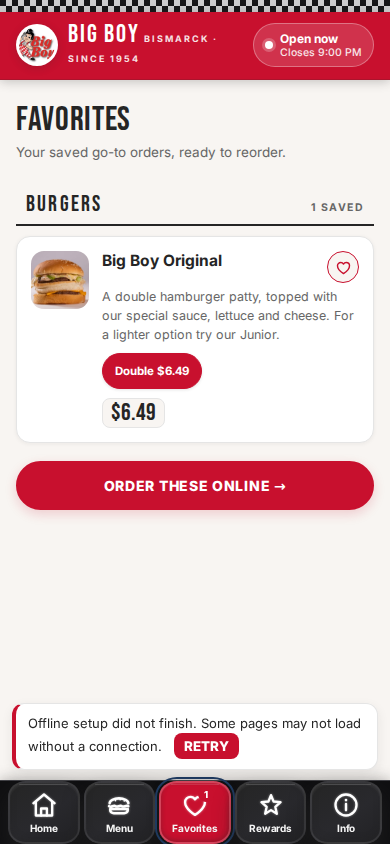
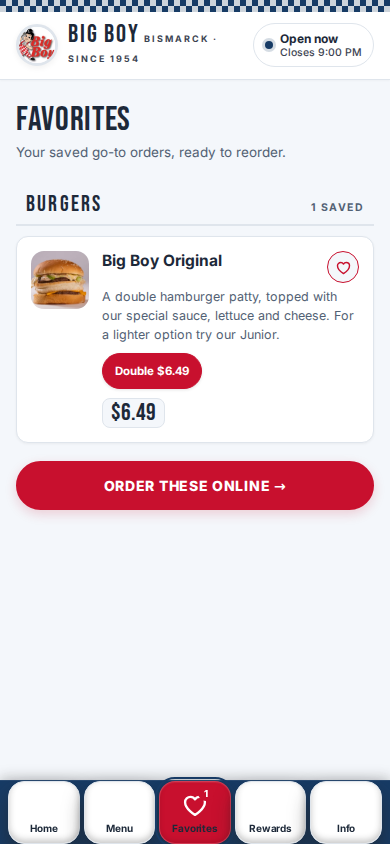
Premium drive-in palette: white/ice-white dominant, navy + red accents

diff --git a/index.html b/index.html
@@ -20,28 +20,22 @@
 <link href="https://fonts.googleapis.com/css2?family=Bebas+Neue&family=Inter:wght@400;500;600;700;800&display=swap" rel="stylesheet">
 <style>
 :root{
-  /* one unified palette */
-  --bg:#F8F5F2;
-  --paper:#FFFFFF;
-  --ink:#252525;
-  --ink-soft:#666666;
-  --line:#E5E5E5;
-  --red:#C8102E;
-  --red-dark:#9B0B23;
-  --navy:#1F3A5F;
-  /* dark surfaces: bottom nav + hero blocks only */
-  --nav:#101012;
-  --charcoal:#252525;
-  --hero-ink:#F5F5F5;
-  --dark-bg:#171719;
-  --dark-card:#29292D;
-  --dark-secondary:#222225;
-  --dark-border:#414146;
-  --shadow:0 4px 12px rgba(37,37,37,.08);
-  --shadow-soft:0 1px 4px rgba(37,37,37,.06);
-  --radius:18px;
-  --radius-md:14px;
-  --radius-sm:12px;
+  /* drive-in brand: white-dominant with red, navy and soft blue accents */
+  --bg:#F4F7FB;       /* ice-white page background */
+  --paper:#FFFFFF;    /* cards */
+  --ink:#1D2939;      /* primary text */
+  --ink-soft:#526174; /* secondary text */
+  --line:#DFE5EC;     /* light borders */
+  --red:#C8102E;      /* primary accent */
+  --red-dark:#9B0B23; /* dark red */
+  --navy:#173B65;     /* deep navy */
+  --blue:#DCE8F4;     /* soft blue (sparingly) */
+  --nav:#173B65;
+  --shadow:0 2px 8px rgba(0,0,0,.05);
+  --shadow-soft:0 1px 3px rgba(0,0,0,.05);
+  --radius:16px;
+  --radius-md:12px;
+  --radius-sm:10px;
   --nav-h:64px;
 }
 *{box-sizing:border-box;-webkit-tap-highlight-color:transparent}
@@ -65,9 +59,9 @@ img{max-width:100%}
   position:relative;
   display:flex;flex-direction:column;align-items:center;justify-content:center;
   gap:9px;min-width:0;
-  border:2px solid rgba(255,255,255,.09);
-  border-radius:25%;
-  background:linear-gradient(145deg,var(--charcoal) 0%,var(--dark-card) 55%,var(--dark-secondary) 100%);
+  border:1px solid var(--line);
+  border-radius:16px;
+  background:var(--paper);
   box-shadow:
     inset 0 2px 2px rgba(255,255,255,.06),
     inset 0 -3px 6px rgba(37,37,37,.25),
@@ -76,45 +70,37 @@ img{max-width:100%}
   text-decoration:none;
   transition:transform 180ms ease,box-shadow 180ms ease,border-color 180ms ease;
 }
-.retro-icon-button::before{
-  content:"";position:absolute;left:10%;right:10%;top:1px;height:1px;
-  background:rgba(255,255,255,.14);border-radius:999px;pointer-events:none;
-}
+
 .retro-icon-button:active{
-  transform:translateY(2px) scale(.98);
-  box-shadow:
-    inset 0 1px 2px rgba(255,255,255,.04),
-    inset 0 2px 5px rgba(37,37,37,.35),
-    0 5px 10px rgba(37,37,37,.5);
+  transform:translateY(1px) scale(.98);
+  box-shadow:0 1px 3px rgba(0,0,0,.05);
 }
 .retro-icon-button:focus-visible{outline:3px solid var(--navy);outline-offset:3px}
 .retro-icon-button .icon{
   display:grid;place-items:center;flex:none;
-  color:var(--paper);
-  filter:drop-shadow(0 0 1px rgba(255,255,255,.45));
+  color:var(--navy);
+  filter:none;
 }
 .retro-icon-button .icon svg{
   width:100%;height:100%;display:block;
   stroke-width:2.5;
 }
 .retro-icon-button .label{
-  color:var(--hero-ink);font-weight:700;text-align:center;
+  color:var(--ink);font-weight:700;text-align:center;
   letter-spacing:-.02em;line-height:1.15;
 }
 .retro-icon-button.primary{
-  background:linear-gradient(160deg,var(--red) 0%,var(--red) 55%,var(--red-dark) 100%);
-  border-color:rgba(255,255,255,.22);
-  box-shadow:
-    inset 0 2px 3px rgba(255,255,255,.15),
-    0 12px 22px rgba(37,37,37,.45),
-    0 4px 16px rgba(200,16,46,.18);
+  background:var(--red);
+  border-color:var(--red-dark);
+  color:#fff;
+  box-shadow:0 4px 12px rgba(200,16,46,.12);
 }
 .retro-icon-button.primary .icon{color:var(--paper)}
 
 /* ---------- checker strip ---------- */
 .checker{
   height:12px;
-  background-color:var(--dark-bg);color:var(--hero-ink);
+  background-color:var(--navy);color:#fff;
   background-image:
     linear-gradient(45deg,rgba(245,245,245,.82) 25%,transparent 25%,transparent 75%,rgba(245,245,245,.82) 75%),
     linear-gradient(45deg,rgba(245,245,245,.82) 25%,transparent 25%,transparent 75%,rgba(245,245,245,.82) 75%);
@@ -125,18 +111,18 @@ img{max-width:100%}
 /* ---------- header ---------- */
 header{
   position:sticky;top:0;z-index:40;
-  background:var(--red);
-  color:var(--paper);
+  background:var(--paper);
+  color:var(--ink);
   padding:11px 16px 12px;
-  border-bottom:1px solid rgba(37,37,37,.18);
-  box-shadow:0 2px 10px rgba(37,37,37,.24);
+  border-bottom:1px solid var(--line);
+  box-shadow:0 1px 2px rgba(0,0,0,.03);
 }
 .brand{display:flex;align-items:center;gap:12px;justify-content:space-between;min-height:42px}
 .logo{display:flex;align-items:center;gap:10px;text-decoration:none}
 .logo-badge{
   width:42px;height:42px;border-radius:50%;
   background:var(--paper);position:relative;overflow:hidden;flex:none;
-  border:3px solid rgba(255,255,255,.95);box-shadow:0 2px 8px rgba(37,37,37,.18);
+  border:3px solid var(--line);box-shadow:0 2px 6px rgba(0,0,0,.06);
   display:grid;place-items:center;font-size:20px;
 }
 .logo-badge img{position:absolute;inset:0;width:100%;height:100%;object-fit:cover}
@@ -144,13 +130,14 @@ header{
 .logo-text .t2{font-size:9px;letter-spacing:.22em;opacity:.88;font-weight:700;margin-top:3px}
 .status{
   display:flex;align-items:center;gap:7px;
-  background:rgba(255,255,255,.14);
-  border:1px solid rgba(255,255,255,.32);
+  background:var(--paper);
+  border:1px solid var(--line);
+  color:var(--ink);
   padding:7px 11px;border-radius:999px;font-size:12px;font-weight:700;
   white-space:nowrap;
 }
-.status .dot{width:8px;height:8px;border-radius:50%;background:var(--paper);box-shadow:0 0 0 3px rgba(255,255,255,.22);flex:none}
-.status.closed .dot{background:var(--charcoal);box-shadow:0 0 0 3px rgba(37,37,37,.22)}
+.status .dot{width:8px;height:8px;border-radius:50%;background:var(--navy);box-shadow:0 0 0 3px rgba(23,59,101,.18);flex:none}
+.status.closed .dot{background:var(--red-dark);box-shadow:0 0 0 3px rgba(155,11,35,.2)}
 .status small{display:block;font-weight:500;opacity:.88;font-size:10.5px;line-height:1.25}
 
 /* ---------- screens ---------- */
@@ -171,12 +158,12 @@ header{
 /* ---------- hero ---------- */
 .hero{
   position:relative;overflow:hidden;border-radius:var(--radius);
-  background:var(--charcoal);color:var(--hero-ink);padding:30px 20px 24px;
-  border:1px solid rgba(255,255,255,.08);
-  box-shadow:0 6px 18px rgba(37,37,37,.26);min-height:250px;display:flex;flex-direction:column;justify-content:flex-end;
+  background:var(--red);color:#fff;padding:30px 20px 24px;
+  border:1px solid var(--red-dark);
+  box-shadow:0 4px 12px rgba(200,16,46,.16);min-height:250px;display:flex;flex-direction:column;justify-content:flex-end;
 }
 .hero-bg{position:absolute;inset:0;width:100%;height:100%;object-fit:cover;z-index:0}
-.hero-tint{position:absolute;inset:0;z-index:1;background:linear-gradient(155deg,rgba(37,37,37,.86) 0%,rgba(34,34,37,.93) 65%,rgba(23,23,25,.96) 100%)}
+.hero-tint{position:absolute;inset:0;z-index:1;background:linear-gradient(155deg,rgba(255,255,255,.24) 0%,transparent 100%)}
 .hero-check{
   position:absolute;inset:0;z-index:1;opacity:.5;
   background-image:
@@ -185,7 +172,7 @@ header{
   background-size:28px 28px;background-position:0 0,14px 14px;
 }
 .hero>*:not(.hero-bg):not(.hero-tint):not(.hero-check){position:relative;z-index:2}
-.hero .eyebrow{font-size:11px;letter-spacing:.3em;font-weight:800;color:var(--hero-ink);margin:0 0 8px}
+.hero .eyebrow{font-size:11px;letter-spacing:.3em;font-weight:800;color:#fff;margin:0 0 8px}
 .hero h1{font-size:52px;margin:0;line-height:.92}
 .hero p{margin:12px 0 0;font-size:14.5px;line-height:1.55;opacity:.95;max-width:34ch}
 .hero .years{
@@ -232,17 +219,17 @@ header{
 .delivery{display:grid;gap:10px}
 .del{
   display:flex;align-items:center;gap:13px;
-  background:var(--charcoal);color:var(--paper);text-decoration:none;
+  background:var(--paper);color:var(--ink);text-decoration:none;
   padding:15px 16px;border-radius:var(--radius-md);
-  border:1px solid rgba(255,255,255,.12);
+  border:1px solid var(--line);
   box-shadow:var(--shadow-soft);
   transition:transform .12s ease;position:relative;overflow:hidden;
 }
-.del::after{content:"";position:absolute;inset:0;background:linear-gradient(100deg,rgba(255,255,255,.08),transparent 55%);pointer-events:none}
+.del::after{display:none}
 .del:active{transform:scale(.98)}
 .del .txt{flex:1;min-width:0;position:relative;z-index:1}
 .del .n{display:block;font-size:17.5px;font-weight:800;letter-spacing:-.01em;line-height:1.15}
-.del .n em{font-style:normal;color:var(--paper)}
+.del .n em{font-style:normal;color:var(--red)}
 .del .s{display:block;margin-top:3px;font-size:10.5px;font-weight:800;letter-spacing:.14em;text-transform:uppercase;opacity:.82}
 .del .go{position:relative;z-index:1;font-size:21px;opacity:.9;font-weight:700}
 .delivery-note{font-size:12px;color:var(--ink-soft);margin:11px 2px 0;line-height:1.55}
@@ -273,7 +260,7 @@ header{
 .chip:hover:not(.on){border-color:var(--red);color:var(--ink)}
 
 /* ---------- menu items ---------- */
-.cat-head{font-family:'Bebas Neue',sans-serif;font-size:22px;letter-spacing:.1em;color:var(--ink);margin:22px 0 10px;padding:7px 10px 6px;border-radius:var(--radius-sm) var(--radius-sm) 0 0;background:var(--bg);border-bottom:2px solid var(--charcoal);display:flex;justify-content:space-between;align-items:baseline}
+.cat-head{font-family:'Bebas Neue',sans-serif;font-size:22px;letter-spacing:.1em;color:var(--ink);margin:22px 0 10px;padding:7px 10px 6px;border-radius:var(--radius-sm) var(--radius-sm) 0 0;background:var(--bg);border-bottom:2px solid var(--line);display:flex;justify-content:space-between;align-items:baseline}
 .cat-head span{font-family:Inter,sans-serif;font-size:10.5px;letter-spacing:.14em;color:var(--ink-soft);font-weight:700}
 .item{display:flex;gap:13px;background:var(--paper);border:1px solid var(--line);border-radius:var(--radius-md);padding:14px;margin-bottom:10px;box-shadow:var(--shadow-soft);transition:box-shadow .2s ease,transform .2s ease}
 .item:hover{box-shadow:var(--shadow);transform:translateY(-1px)}
@@ -336,16 +323,15 @@ a:focus, button:focus{outline:2px solid var(--navy);outline-offset:2px}
 .empty h3{font-size:26px;color:var(--ink);margin:12px 0 6px}
 .empty p{font-size:13.5px;margin:0 0 18px;line-height:1.6}
 .btn{display:inline-flex;align-items:center;justify-content:center;gap:8px;background:var(--red);color:var(--paper);text-decoration:none;padding:14px 24px;border-radius:999px;font-weight:800;font-size:14px;letter-spacing:.05em;box-shadow:0 4px 12px rgba(200,16,46,.18);border:2px solid var(--red)}
-.btn.ghost{background:var(--paper);color:var(--charcoal);border:2px solid var(--charcoal);box-shadow:none}
-.btn.dark{background:var(--charcoal);border-color:var(--charcoal);box-shadow:none}
+.btn.ghost{background:var(--paper);color:var(--navy);border:2px solid var(--navy);box-shadow:none}
+.btn.dark{background:var(--navy);border-color:var(--navy);box-shadow:none}
 .btn.block{display:flex;width:100%}
 .btn:active{transform:scale(.98)}
 
 /* ---------- rewards ---------- */
-.reward-hero{border-radius:var(--radius);padding:26px 20px;text-align:center;color:var(--hero-ink);background:var(--charcoal);border:1px solid rgba(255,255,255,.08);box-shadow:0 6px 18px rgba(37,37,37,.26);position:relative;overflow:hidden}
-.reward-hero::after{content:"";position:absolute;inset:0;background-image:radial-gradient(circle at 20% 20%,rgba(255,255,255,.14) 0 2px,transparent 2px);background-size:22px 22px}
+.reward-hero{border-radius:var(--radius);padding:26px 20px;text-align:center;color:#fff;background:var(--red);border:1px solid var(--red-dark);box-shadow:0 4px 12px rgba(200,16,46,.16);position:relative;overflow:hidden}
 .reward-hero>*{position:relative;z-index:1}
-.reward-hero .avatar{width:74px;height:74px;border-radius:50%;margin:0 auto;border:4px solid var(--paper);box-shadow:0 6px 18px rgba(37,37,37,.25)}
+.reward-hero .avatar{width:74px;height:74px;border-radius:50%;margin:0 auto;border:4px solid #fff}
 .reward-hero h2{font-size:36px;margin:12px 0 6px}
 .reward-hero p{font-size:13.5px;opacity:.94;margin:0 auto;max-width:32ch;line-height:1.6}
 .reward-grid{display:grid;grid-template-columns:minmax(0,1fr);gap:12px;margin-top:16px}
@@ -361,33 +347,33 @@ a:focus, button:focus{outline:2px solid var(--navy);outline-offset:2px}
 .timeline{position:relative;padding-left:22px}
 .timeline::before{content:"";position:absolute;left:5px;top:6px;bottom:6px;width:2px;background:var(--line)}
 .tl-item{position:relative;padding-bottom:20px}
-.tl-item::before{content:"";position:absolute;left:-22px;top:5px;width:12px;height:12px;border-radius:50%;background:var(--red);border:3px solid var(--paper);box-shadow:0 0 0 2px var(--line)}
+.tl-item::before{content:"";position:absolute;left:-22px;top:5px;width:12px;height:12px;border-radius:50%;background:var(--navy);border:3px solid var(--paper);box-shadow:0 0 0 2px var(--line)}
 .tl-item .yr{font-family:'Bebas Neue',sans-serif;font-size:22px;color:var(--charcoal);line-height:1}
 .tl-item h3{margin:3px 0 5px;font-size:20px}
 .tl-item p{margin:0;font-size:13.5px;color:var(--ink-soft);line-height:1.65}
 .story-photo{width:100%;max-height:300px;object-fit:contain;object-position:top;background:var(--bg);border:1px solid var(--line);border-radius:var(--radius-sm);margin-bottom:16px;display:block}
 .photo-cap{font-size:11px;color:var(--ink-soft);text-align:center;margin:-8px 0 16px;letter-spacing:.06em}
-blockquote{margin:0;padding:16px 18px;background:var(--bg);border:1px solid var(--line);border-left:4px solid var(--red);border-radius:0 var(--radius-sm) var(--radius-sm) 0;font-size:13.5px;line-height:1.7;color:var(--ink)}
+blockquote{margin:0;padding:16px 18px;background:var(--bg);border:1px solid var(--line);border-left:4px solid var(--navy);border-radius:0 var(--radius-sm) var(--radius-sm) 0;font-size:13.5px;line-height:1.7;color:var(--ink)}
 blockquote cite{display:block;margin-top:9px;font-style:normal;font-weight:700;font-size:12px;color:var(--charcoal)}
 .contact-row{display:flex;gap:13px;align-items:center;padding:13px 0;border-bottom:1px dashed var(--line);text-decoration:none}
 .contact-row:last-of-type{border-bottom:none}
-.contact-row .ico{width:40px;height:40px;border-radius:var(--radius-sm);background:var(--bg);border:1px solid var(--line);display:grid;place-items:center;flex:none;color:var(--red)}
+.contact-row .ico{width:40px;height:40px;border-radius:var(--radius-sm);background:var(--bg);border:1px solid var(--line);display:grid;place-items:center;flex:none;color:var(--navy)}
 .contact-row .ico svg{width:19px;height:19px;display:block}
 .contact-row .lab{font-size:10.5px;letter-spacing:.14em;font-weight:800;color:var(--ink-soft);text-transform:uppercase}
 .contact-row .val{font-size:14.5px;font-weight:600;margin-top:2px;display:block}
 .socials{display:grid;grid-template-columns:1fr 1fr;gap:10px;margin-top:14px}
-.socials a{display:flex;align-items:center;justify-content:center;gap:9px;padding:13px;border-radius:var(--radius-md);text-decoration:none;font-weight:700;font-size:13.5px;color:var(--paper)}
+.socials a{display:flex;align-items:center;justify-content:center;gap:9px;padding:13px;border-radius:var(--radius-md);border:1px solid var(--line);text-decoration:none;font-weight:700;font-size:13.5px;color:var(--navy);background:var(--paper)}
 .socials a img{width:19px;height:19px;object-fit:contain}
-.socials a.ig{background:var(--charcoal)}
-.socials a.fb{background:var(--charcoal)}
+.socials a.ig{background:var(--paper)}
+.socials a.fb{background:var(--paper);border-color:#1877F2;color:var(--navy)}
 .note-box{background:var(--paper);border:1px solid var(--line);border-radius:var(--radius-md);padding:14px 16px;font-size:13px;line-height:1.6;color:var(--ink-soft)}
 .fb-card{background:var(--paper);border:1px solid var(--line);border-radius:var(--radius);padding:20px 18px;box-shadow:var(--shadow-soft);margin-top:12px}
 .fb-card-head{display:flex;align-items:center;gap:12px;margin-bottom:12px}
-.fb-icon{width:36px;height:36px;border-radius:50%;background:var(--charcoal);color:var(--paper);display:grid;place-items:center;font-size:18px;font-weight:800}
+.fb-icon{width:36px;height:36px;border-radius:50%;background:var(--paper);border:1px solid var(--line);color:var(--navy);display:grid;place-items:center;font-size:18px;font-weight:800}
 .fb-name{font-size:16px;font-weight:700}
-.fb-follow{background:var(--charcoal);color:var(--paper);padding:11px 16px;border-radius:999px;font-weight:800;font-size:14px;text-align:center;display:block;margin-bottom:12px}
+.fb-follow{background:var(--paper);color:var(--navy);border:1px solid var(--line);padding:11px 16px;border-radius:999px;font-weight:800;font-size:14px;text-align:center;display:block;margin-bottom:12px}
 .fb-footer{display:flex;gap:8px;flex-wrap:wrap}
-.fb-link{flex:1;min-width:55px;padding:10px 8px;border-radius:var(--radius-sm);font-size:12px;font-weight:700;text-align:center;color:var(--red);background:var(--bg);border:1px solid var(--line)}
+.fb-link{flex:1;min-width:55px;padding:10px 8px;border-radius:var(--radius-sm);font-size:12px;font-weight:700;text-align:center;color:var(--navy);background:var(--blue);border:1px solid var(--blue)}
 .fb-link:active{transform:scale(.96)}
 .fb-deals-list{display:grid;gap:10px;margin-top:4px}
 .fb-deals-empty{color:var(--ink-soft);font-size:13px;text-align:center;padding:16px}
@@ -415,21 +401,21 @@ nav.tabbar{
   padding-bottom:env(safe-area-inset-bottom);
   background:var(--nav);color:var(--hero-ink);
   backdrop-filter:blur(14px);-webkit-backdrop-filter:blur(14px);
-  border-top:1px solid var(--dark-border);
+  border-top:1px solid rgba(255,255,255,.08);
   box-shadow:0 -2px 12px rgba(37,37,37,.28);
   display:grid;grid-template-columns:repeat(5,minmax(0,1fr));gap:4px;padding:0 8px;
 }
-.tab{padding:7px 2px;gap:4px;color:var(--hero-ink);position:relative;-webkit-tap-highlight-color:transparent}
+.tab{padding:7px 2px;gap:4px;color:#fff;position:relative;-webkit-tap-highlight-color:transparent}
 .tab::before{left:14%;right:14%}
-.tab .icon{width:28px;height:28px;color:var(--paper);filter:drop-shadow(0 0 1px rgba(255,255,255,.45))}
+.tab .icon{width:28px;height:28px;color:#fff;filter:none}
 .tab .icon svg{fill:none}
 .tab .label{font-size:10px}
 .tab.on{
   background:var(--red);
-  border-color:rgba(255,255,255,.22);
+  border-color:rgba(255,255,255,.18);
   box-shadow:
     inset 0 1px 1px rgba(255,255,255,.08),
-    inset 0 -2px 5px rgba(37,37,37,.3),
+    inset 0 -2px 5px rgba(0,0,0,.12),
     0 4px 10px rgba(37,37,37,.4);
 }
 .tab .badge{position:absolute;top:3px;right:calc(50% - 19px);min-width:16px;height:16px;padding:0 4px;border-radius:999px;background:var(--red);color:var(--paper);font-size:9.5px;font-weight:800;display:none;align-items:center;justify-content:center}
